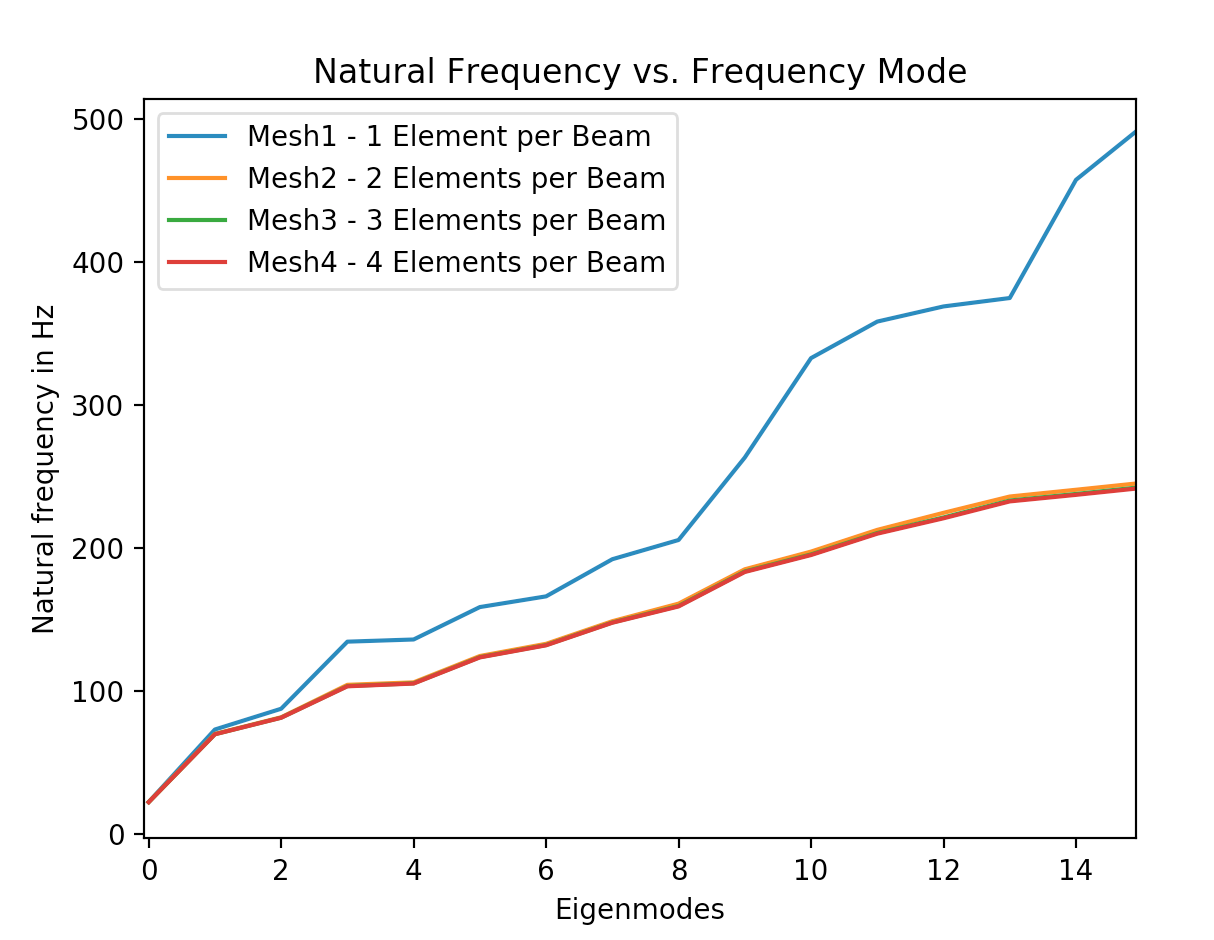
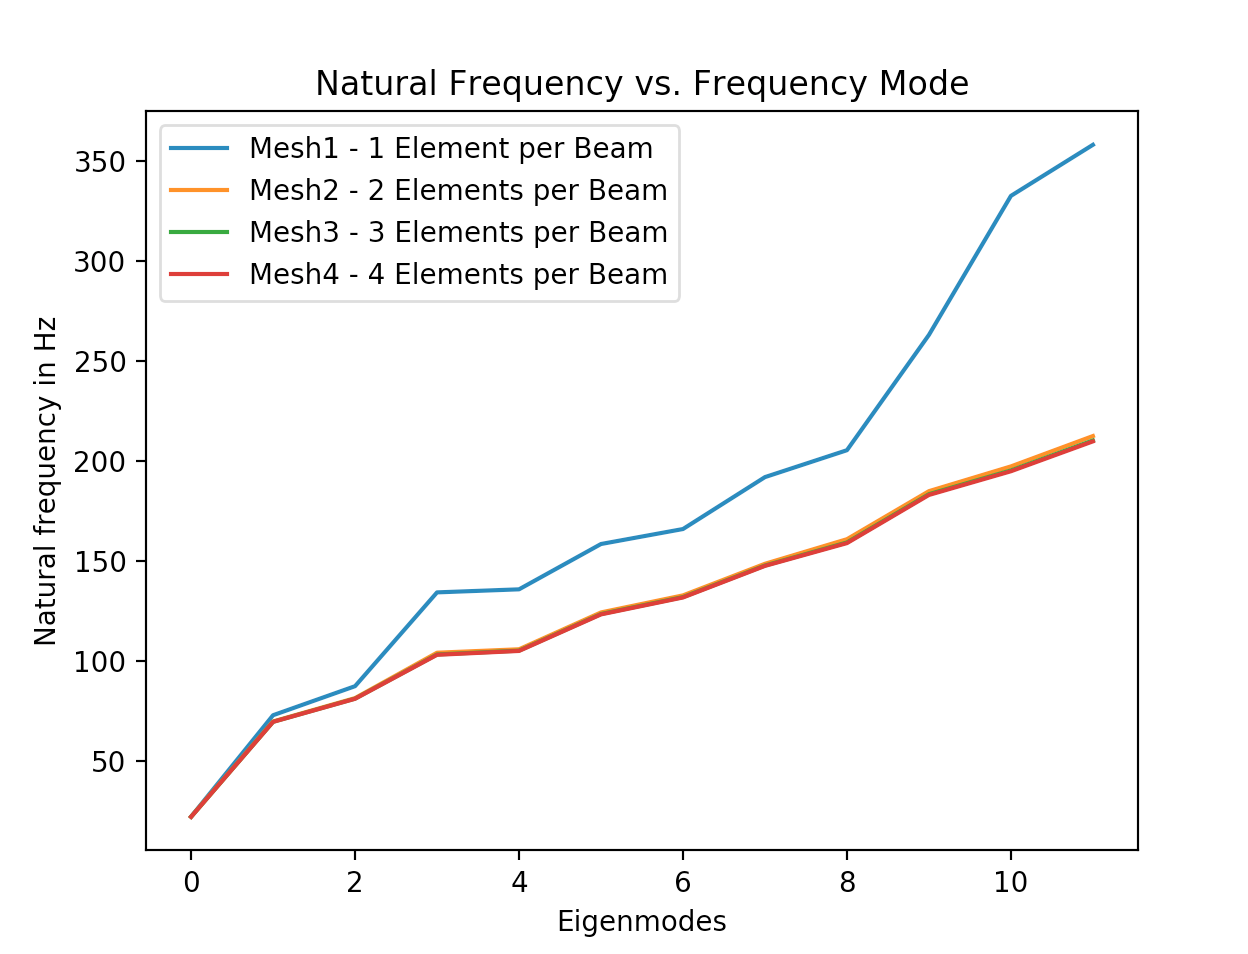
Added bonus

diff --git a/Vibrations/AER501_Assignment2.py b/Vibrations/AER501_Assignment2.py
@@ -194,30 +194,29 @@ def direct_freq_analysis(rhoA, EA, EI, local_mesh, dof, y_offset, reduced_M, red
         u0 = np.linalg.solve(dynamic_stiffness_matrix, reduced_f)  # 18 x 1
         u0_at_R[i] = abs(u0[R_dof])
 
-    return u0_at_R, reduced_f, R_dof
+    return u0_at_R, reduced_f, R_dof, u0[R_dof]
 
-def modal_freq_analyis(eigvec, eigval, reduced_f, R_dof, Omega_list):
+def modal_freq_analyis(eigvec, eigval, reduced_f, Omega_list, m):
     """
     Calculates frequency response using modal analysis approach.
     :return:
     """
     # Question 3 B
+    num_of_eig = len(eigval)
     gamma2 = 10
     j = 1j
-    num_of_eig = len(eigval)
     num_of_omega = len(Omega_list)
     q_shape = (num_of_omega, num_of_eig)
     u0_modal = np.zeros(q_shape, dtype=complex)
-    print "eigvec", eigvec.shape
 
     for k in range(len(Omega_list)):
-        for i in range(num_of_eig):
+        for i in range(m):
             Omega = Omega_list[k] * 2 * math.pi  # Convert to Radians
             q_at_Omega = np.dot(eigvec[:, i], reduced_f) / (eigval[i] - Omega**2 + j* Omega * gamma2)
             u0_modal[k] = np.add(u0_modal[k], q_at_Omega * eigvec[:, i])
     # plot_modal(Omega_list, u0)
-    u0_modal = np.absolute(u0_modal)
-    plot_modal(Omega_list, u0_modal[:, R_dof])
+    u0_modal_abs = np.absolute(u0_modal)
+    return u0_modal_abs, u0_modal
 
 
 def get_mesh_info (local_mesh):
@@ -269,15 +268,92 @@ def plot_excitation_freq(X, Y, Y1, Y2, Y3):
     plt.pause(1000)
     plt.show()
 
-def plot_modal (X, Y):
+def plot_modal (X, Y, Y1, Y2, Y3, Y4):
     plt.ion()
-    plt.semilogy(X, Y, label="Mesh 4")
+    plt.semilogy(X, Y, label="M=126")
+    plt.semilogy(X, Y1, label="M=20")
+    plt.semilogy(X, Y2, label="M=10")
+    plt.semilogy(X, Y3, label="M=5")
+    plt.semilogy(X, Y4, label="M=3")
+
     plt.legend()
     plt.title("Modal Analysis")
     plt.xlabel("Frequency in Hz")
     plt.ylabel("u0 in m)")
     plt.pause(1000)
     plt.show()
+
+
+def plot_error (X, Y_direct, Y, Y1, Y2, Y3, Y4):
+    diff = np.absolute(Y_direct - Y)
+    diff1 = np.absolute(Y_direct - Y1)
+    diff2 = np.absolute(Y_direct - Y2)
+    diff3 = np.absolute(Y_direct - Y3)
+    diff4 = np.absolute(Y_direct - Y4)
+    plt.ion()
+    plt.semilogy(X, diff, label="M=126")
+    plt.semilogy(X, diff1, label="M=20")
+    plt.semilogy(X, diff2, label="M=10")
+    plt.semilogy(X, diff3, label="M=5")
+    plt.semilogy(X, diff4, label="M=3")
+
+    plt.legend()
+    plt.title("Error Analysis")
+    plt.ylabel("Error between Direct and Modal Analysis for Mode Shapes)")
+    plt.xlabel("Frequency in Hz")
+    plt.pause(1000)
+    plt.show()
+
+
+def bonus(eigvec, reduced_f, K_reduced, eigval):
+    # delu = SUM_1_N { 1/eig(i) * eig * eigT * f } - SUM_1_M{  1/eig(i) * eig * eigT * f }  m is mode
+    # delu = inv(Kr)*f0r - ...
+    #     phi(:,1:nmodes)*inv(diag((2*pi.*w(1:nmodes)).^2))*phi(:,1:nmodes)'*f0r;
+    modes = 15
+    Lambda = np.diag(eigval[:modes])
+    print "shape np.linalg.inv(K_reduced) ", np.linalg.inv(K_reduced).shape
+    print "reduced_f", reduced_f.shape
+    print "eigvec[:, :modes]", eigvec[:, :modes].shape
+    print "Lambda", Lambda
+    delu = np.matmul(np.linalg.inv(K_reduced), reduced_f) - np.matmul(np.matmul(
+        np.matmul(eigvec[:, :modes], np.linalg.inv(Lambda)), np.transpose(eigvec[:, :modes])), reduced_f)
+    print "delu", delu
+    print "delu shape", delu.shape
+
+    return delu
+
+
+def plot_bonus(Omega_list, u0_at_R, u0_modal, delu):
+    print "new delu", delu.shape
+    plt.ion()
+    plt.figure()
+    plt.semilogy(Omega_list, u0_at_R, label="Direct")
+    print "u0_at_R", u0_at_R.shape
+    plt.semilogy(Omega_list, u0_modal, label="Modal")
+    print "u0_modal", u0_modal.shape
+    plt.semilogy(Omega_list, u0_modal + delu, label="Modal with added Delta u")
+    plt.xlabel("Excitation frequency in Hz")
+    plt.ylabel("Mode Shapes")
+    plt.title("(Quasi-static Correction for Frequency Response Analysis (Bonus)")
+    plt.legend()
+    plt.pause(1000)
+    plt.show()
+    """
+    figure; % create new figure
+    dof_offset = 3*length(find(constr_node < nodeR)); % shift due to reduction
+    
+    % Plot direct solution, modal solution, and modal solution with correction
+    semilogy(omega/(2*pi), abs(u0d(3*nodeR-1-dof_offset,:)), ...
+             omega/(2*pi), abs(u0m(3*nodeR-1-dof_offset,:)), ...
+             omega/(2*pi), abs(u0m(3*nodeR-1-dof_offset,:) + ...
+             delu(3*nodeR-1-dof_offset)));
+    
+    legend('Mesh4 - Direct', 'Mesh4 - Modal', 'Mesh4 - Modal with Q-S')
+    xlabel('Excitation Frequency (Hz)')
+    ylabel('Frequency Response')
+    """
+    return NotImplemented
+
 
 def main():
     EI = 1.286 * 10**4   # Nm^2
@@ -308,7 +384,7 @@ def main():
     eigval, eigvec, omega, hertz, reduced_M, reduced_K = free_vibration(M, K, local_mesh)
     print "Mesh 1 Frequencies in Hz, first 12", hertz[0:12]
 
-    u0_at_R, _, _ = direct_freq_analysis(rhoA, EA, EI, local_mesh, dof, y_offset, reduced_M, reduced_K, Omega_list)
+    u0_at_R, _, _, _ = direct_freq_analysis(rhoA, EA, EI, local_mesh, dof, y_offset, reduced_M, reduced_K, Omega_list)
     ### END MESH 1 ###
 
     ### MESH 2 ###
@@ -327,7 +403,7 @@ def main():
     eigval1, eigvec1, omega1, hertz1, reduced_M, reduced_K = free_vibration(M1, K1, local_mesh)
     print "Mesh 2 Frequencies in Hz, first 12", hertz1[0:12]
 
-    u0_at_R1, _, _ = direct_freq_analysis(rhoA, EA, EI, local_mesh, dof, y_offset, reduced_M, reduced_K, Omega_list)
+    u0_at_R1, _, _, _ = direct_freq_analysis(rhoA, EA, EI, local_mesh, dof, y_offset, reduced_M, reduced_K, Omega_list)
 
 
     ### END MESH 2
@@ -350,7 +426,7 @@ def main():
     eigval2, eigvec2, omega2, hertz2, reduced_M, reduced_K = free_vibration(M2, K2, local_mesh)
     print "Mesh 3 Frequencies in Hz, first 12", hertz2[0:12]
 
-    u0_at_R2, _, _ = direct_freq_analysis(rhoA, EA, EI, local_mesh, dof, y_offset, reduced_M, reduced_K, Omega_list)
+    u0_at_R2, _, _, _ = direct_freq_analysis(rhoA, EA, EI, local_mesh, dof, y_offset, reduced_M, reduced_K, Omega_list)
     ### END MESH 3
 
 
@@ -369,19 +445,35 @@ def main():
     K4 = assembly(k_e4, connec4, num_nodes4)
     eigval4, eigvec4, omega4, hertz4, reduced_M, reduced_K = free_vibration(M4, K4, local_mesh)
     print "Mesh 4 Frequencies in Hz, first 12", hertz4[0:12]
-    u0_at_R4, reduced_f, R_dof = direct_freq_analysis(rhoA, EA, EI, local_mesh, dof, y_offset, reduced_M, reduced_K, Omega_list)
-    modal_freq_analyis(eigvec4, eigval4, reduced_f, R_dof, Omega_list)
-
+    u0_at_R4, reduced_f, R_dof, u0_at_R4_not_abs = direct_freq_analysis(rhoA, EA, EI, local_mesh, dof, y_offset, reduced_M, reduced_K, Omega_list)
+    m = [len(eigval4), 20, 10, 5, 3, 15]
+    u0_modal_M_full, u0_modal_M_full_not_abs  = modal_freq_analyis(eigvec4, eigval4, reduced_f, Omega_list, m[0])
+    u0_modal_M1, u0_modal_M1_not_abs = modal_freq_analyis(eigvec4, eigval4, reduced_f, Omega_list, m[1])
+    u0_modal_M2, u0_modal_M2_not_abs = modal_freq_analyis(eigvec4, eigval4, reduced_f, Omega_list, m[2])
+    u0_modal_M3, u0_modal_M3_not_abs = modal_freq_analyis(eigvec4, eigval4, reduced_f, Omega_list, m[3])
+    u0_modal_M4, u0_modal_M4_not_abs = modal_freq_analyis(eigvec4, eigval4, reduced_f, Omega_list, m[4])
+    u0_modal_M5, u0_modal_M5_not_abs = modal_freq_analyis(eigvec4, eigval4, reduced_f, Omega_list, m[5])
     ### END MESH 4 ###
 
 
     # Q2
-    plot_natural_freq(hertz, hertz1, hertz2, hertz4)
-    # Q3
-    plot_excitation_freq(Omega_list, u0_at_R, u0_at_R1, u0_at_R2, u0_at_R4)
+    plot_natural_freq(hertz[0:12], hertz1[0:12], hertz2[0:12], hertz4[0:12])
     # plot_mode_shape(eigvec, eigvec1, eigvec2, eigvec4) # Looks pretty but is absolutely useless.
+    print "Eigenvector (Mode Shape) for Mesh 1: ", eigvec[:, 12]
+    print "Eigenvector (Mode Shape) for Mesh 2: ", eigvec1[:, 12]
+    print "Eigenvector (Mode Shape) for Mesh 3: ", eigvec2[:, 12]
+    print "Eigenvector (Mode Shape) for Mesh 4: ", eigvec4[:, 12]
 
-
+    # Q3A
+    plot_excitation_freq(Omega_list, u0_at_R, u0_at_R1, u0_at_R2, u0_at_R4)
+    # Q3B
+    plot_modal(Omega_list, u0_modal_M_full[:, R_dof], u0_modal_M1[:, R_dof], u0_modal_M2[:, R_dof],
+               u0_modal_M3[:, R_dof], u0_modal_M4[:, R_dof])
+    plot_error(Omega_list, u0_at_R4_not_abs, u0_modal_M_full_not_abs[:, R_dof], u0_modal_M1_not_abs[:, R_dof], u0_modal_M2_not_abs[:, R_dof],
+               u0_modal_M3_not_abs[:, R_dof], u0_modal_M4_not_abs[:, R_dof])
+    # BONUS
+    delu = bonus(eigvec4, reduced_f, reduced_K, eigval4)
+    plot_bonus(Omega_list, u0_at_R4, u0_modal_M5[:, R_dof], delu[R_dof])
 
 """
 Part A
